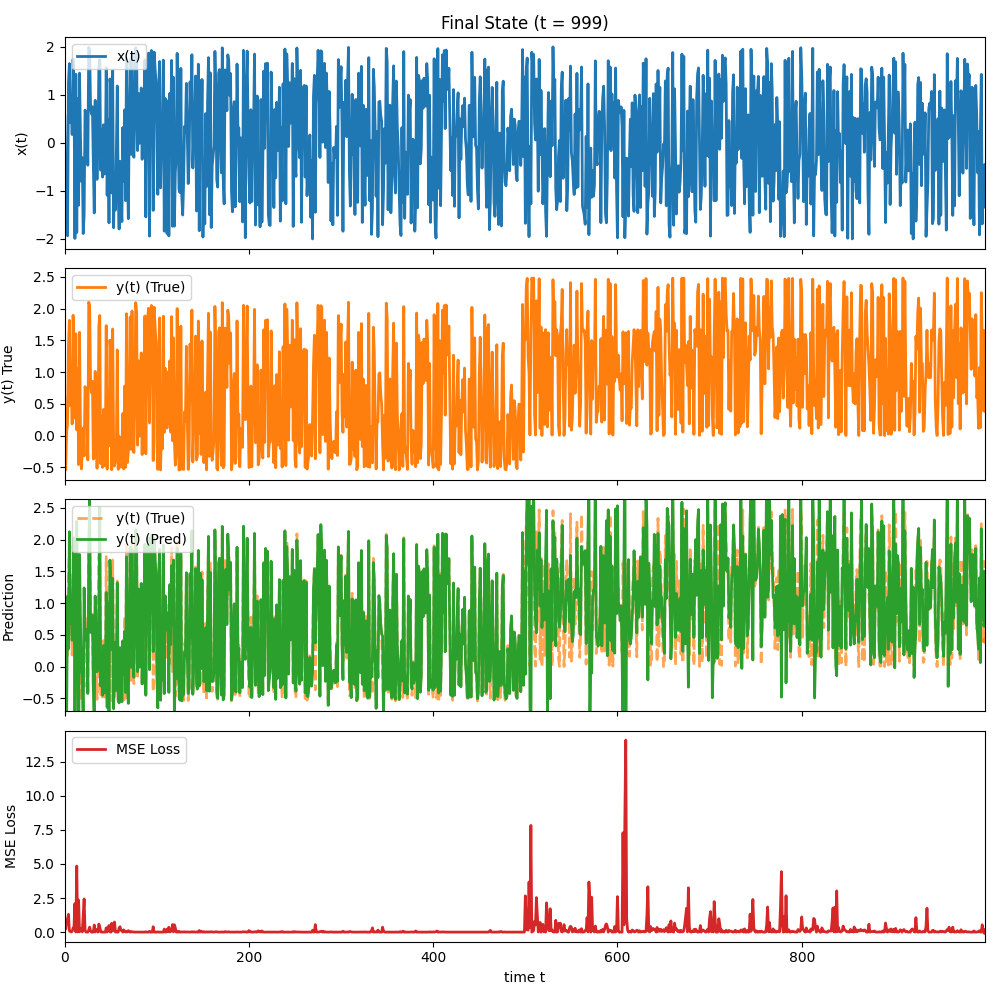
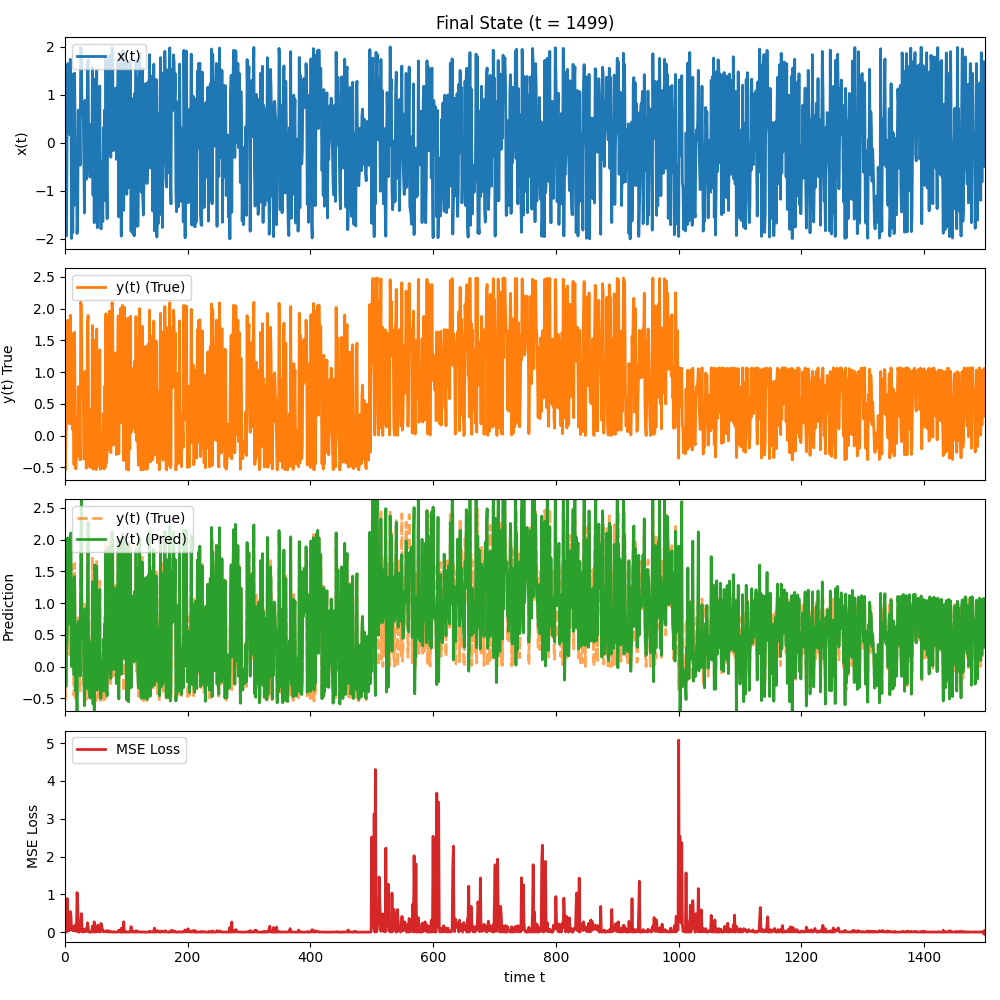
back up codes

diff --git a/demos/function_tracking/common.py b/demos/function_tracking/common.py
@@ -3,46 +3,60 @@ import matplotlib.pyplot as plt
 
 #------------------------------- DATA GENERATION -----------------------------
 def f1(x):
-    """
-    First regime: some smooth nonlinear function of x only.
-    """
     return np.sin(x) + 0.3 * x**2
 
 def f2(x):
-    """
-    Second regime: a completely different function of x only.
-    """
     return -np.cos(2 * x) + 0.1 * x**3 + 1.0
 
+def f3(x):
+    return np.exp(-0.5 * (x - 1)**2) + 0.05 * x**3
 
-def build_time_series(n, seed=0, low=-2.0, high=2.0, t_switch=None):
+def build_time_series(n, seed=0, low=-2.0, high=2.0):
     """
     Generates time, x, and y data.
-    y is piecewise in *time index* but depends only on x:
+    y is piecewise in *time index* and switches between f1, f2, and f3
+    at points n/3 and 2n/3.
 
-        if t < t_switch: y = f1(x)
-        else:            y = f2(x)
+    Regime 1 (t < n/3):       y = f1(x)
+    Regime 2 (n/3 <= t < 2n/3): y = f2(x)
+    Regime 3 (t >= 2n/3):     y = f3(x)
 
-    Returns t_orig, x, y, where t_orig is in [0, n-1].
+    Args:
+        n (int): The total number of data points.
+        seed (int): Random seed for reproducibility.
+        low (float): Lower bound for random x values.
+        high (float): Upper bound for random x values.
+
+    Returns:
+        tuple: (t_orig, x, y), where t_orig is in [0, n-1].
     """
     rng = np.random.default_rng(seed)
-    
-    # 1. Generate original t in [0, n-1]
+
+    # Generate original t in [0, n-1]
     t_orig = np.arange(n, dtype=float)
 
-    # If no switch specified, default to middle of the series
-    if t_switch is None:
-        t_switch = n // 2
+    # Calculate the split indices for the three regimes (n/3 and 2n/3)
+    n1 = n // 3
+    n2 = 2 * n // 3
 
-    # 2. Generate x in [low, high]
+    # Generate x in [low, high]
     x = rng.uniform(low, high, size=n)
 
-    # 3. Compute y using x only, with a regime change at t_switch
-    y1 = f1(x)
-    y2 = f2(x)
+    # Compute y based on the three regimes
+    # Initialize y with zeros
+    y = np.zeros(n)
 
-    mask = t_orig < t_switch   # early vs late times
-    y = np.where(mask, y1, y2)
+    # Regime 1: t < n1 (uses f1)
+    mask1 = t_orig < n1
+    y[mask1] = f1(x[mask1])
+
+    # Regime 2: n1 <= t < n2 (uses f2)
+    mask2 = (t_orig >= n1) & (t_orig < n2)
+    y[mask2] = f2(x[mask2])
+
+    # Regime 3: t >= n2 (uses f3)
+    mask3 = t_orig >= n2
+    y[mask3] = f3(x[mask3])
 
     return t_orig, x, y
 

diff --git a/demos/function_tracking/eclair_model/firmware/parameters.h b/demos/function_tracking/eclair_model/firmware/parameters.h
@@ -52,7 +52,7 @@ struct Context {
 static Params P = {
     { {
 {
-{ weight_t(-7.08467771e-01), weight_t(-2.09342234e-01), weight_t(-4.44152773e-01), weight_t(1.11425322e-01), weight_t(3.21302742e-01), weight_t(-4.02418810e-02), weight_t(9.03361883e-01), weight_t(-8.92123957e-01) }
+{ weight_t(3.45665607e-01), weight_t(9.25061342e-01), weight_t(2.62609854e-01), weight_t(-3.43666161e-01), weight_t(-9.77805157e-01), weight_t(8.52135613e-01), weight_t(-9.37779159e-01), weight_t(2.12651782e-01) }
 }
 } }
 };

diff --git a/demos/function_tracking/eclair_train.py b/demos/function_tracking/eclair_train.py
@@ -5,7 +5,7 @@ sys.path.append('../../src')
 from eclair import Eclair
 from common import build_time_series, save_static_four_plots
 
-NUM_SAMPLES = 1000
+NUM_SAMPLES = 1500
 
 # ------------------------------- DATASET --------------------------
 t_series, x_series, y_series = build_time_series(NUM_SAMPLES)

diff --git a/demos/function_tracking/pytorch_train.py b/demos/function_tracking/pytorch_train.py
@@ -7,7 +7,7 @@ import torch.nn as nn
 import torch.optim as optim
 from common import build_time_series, save_static_four_plots
 
-NUM_SAMPLES = 1000
+NUM_SAMPLES = 1500
 
 # Ensure plot directory exists
 os.makedirs('plots', exist_ok=True)
